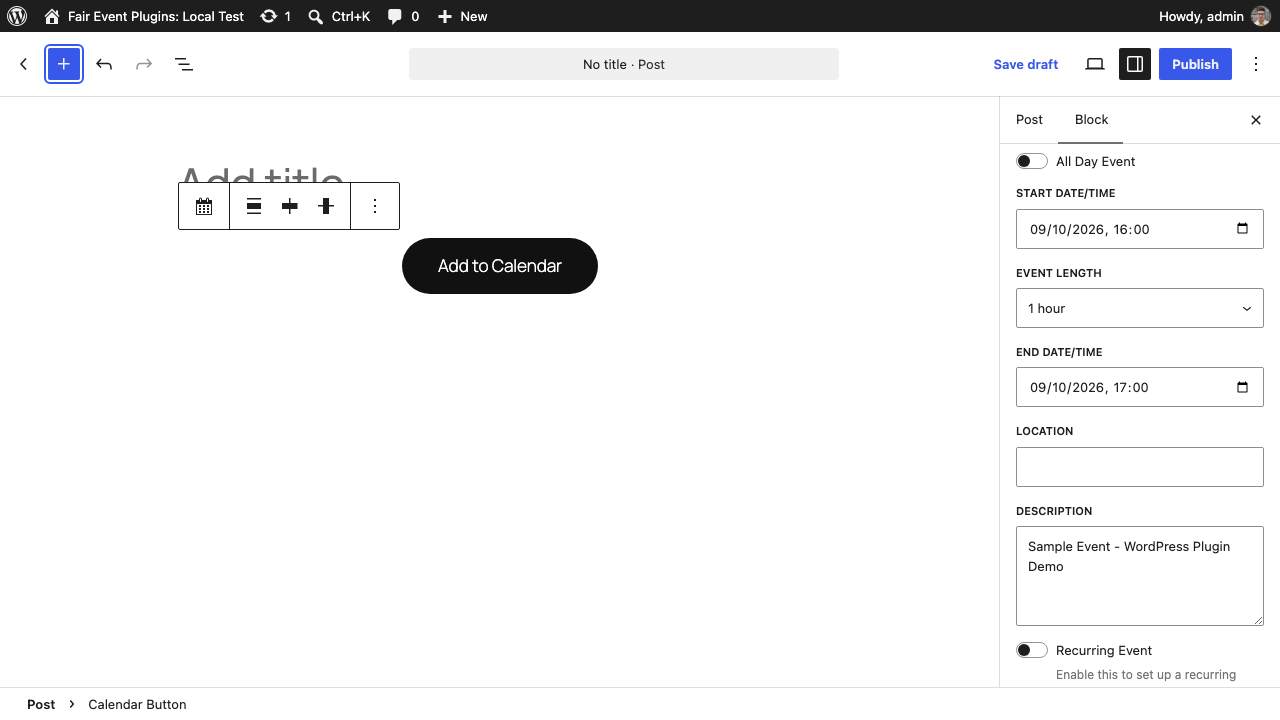
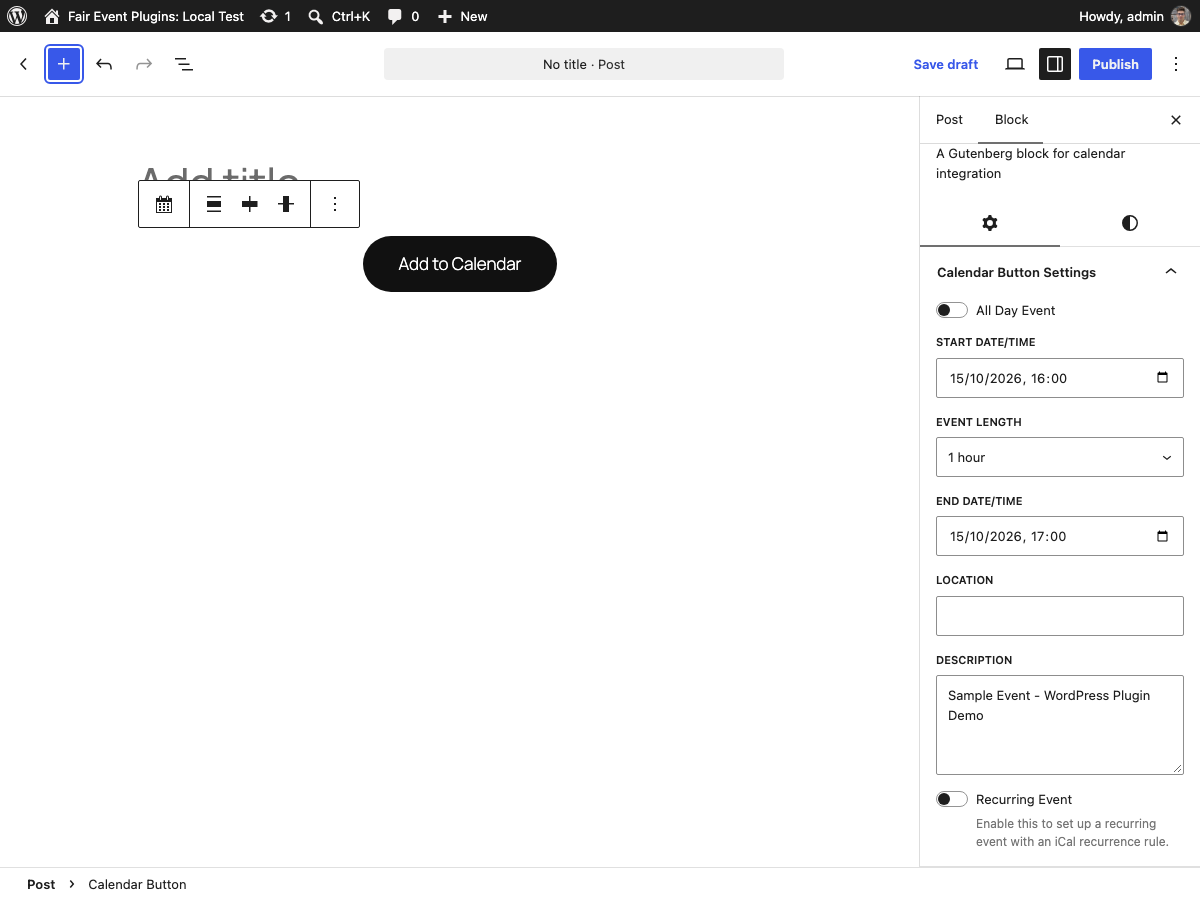
Capture Fair Calendar Button screenshots at 1200×900
The project-level Desktop Chrome preset overrode the config viewport, so
the plugin-directory screenshots came out at 1280×720. Set the viewport in
the screenshot spec, as the fair-events and fair-timetable specs do, and
assert that the block, its settings panel and the open provider dropdown
are fully in frame before capture.

Document the real command and prerequisites in the asset notes and fix
the example base URL port.

Refs #1833

diff --git a/fair-calendar-button/e2e/wordpress-org.spec.js b/fair-calendar-button/e2e/wordpress-org.spec.js
@@ -4,8 +4,32 @@ import { test, expect } from '@playwright/test';
 const WP_ADMIN_USER = process.env.WP_ADMIN_USER || 'admin';
 const WP_ADMIN_PASS = process.env.WP_ADMIN_PASS || 'password';
 
+// Plugin-directory screenshots share one size across the plugin galleries.
+// Set it in the spec: the project's Desktop Chrome preset overrides the
+// config-level viewport.
+const VIEWPORT = { width: 1200, height: 900 };
+
+/**
+ * Assert that a locator's bounding box lies fully inside the viewport, so the
+ * captured (non-full-page) screenshot shows the whole subject.
+ *
+ * @param {import('@playwright/test').Page}    page    Current page.
+ * @param {import('@playwright/test').Locator} locator Subject to check.
+ */
+async function expectFullyInViewport( page, locator ) {
+	await expect( locator ).toBeVisible();
+	const box = await locator.boundingBox();
+	const { width, height } = page.viewportSize();
+	expect( box.x ).toBeGreaterThanOrEqual( 0 );
+	expect( box.y ).toBeGreaterThanOrEqual( 0 );
+	expect( box.x + box.width ).toBeLessThanOrEqual( width );
+	expect( box.y + box.height ).toBeLessThanOrEqual( height );
+}
+
 test.describe( 'WordPress.org Screenshot for Fair Calendar Button', () => {
 	test.beforeEach( async ( { page } ) => {
+		await page.setViewportSize( VIEWPORT );
+
 		// Login to WordPress admin
 		await page.goto( '/wp-admin' );
 		await page.fill( '#user_login', WP_ADMIN_USER );
@@ -147,6 +171,20 @@ test.describe( 'WordPress.org Screenshot for Fair Calendar Button', () => {
 			await page.waitForTimeout( 500 );
 		}
 
+		// The selected block and its settings panel must both be in frame.
+		await expectFullyInViewport(
+			page,
+			editorFrame
+				.locator( '.wp-block-fair-calendar-button-calendar-button' )
+				.first()
+		);
+		await expect(
+			page.locator( '.block-editor-block-inspector' )
+		).toBeVisible();
+		await expect(
+			page.locator( 'input[type="datetime-local"]' ).first()
+		).toBeInViewport();
+
 		// Take screenshot-1 of the editor with settings panel (full viewport)
 		await page.screenshot( {
 			path: 'assets/screenshot-1.png',
@@ -227,6 +265,11 @@ test.describe( 'WordPress.org Screenshot for Fair Calendar Button', () => {
 				await page.waitForTimeout( 2000 );
 			}
 		}
+
+		// The whole open provider dropdown must be in frame.
+		const dropdown = page.locator( '.calendar-dropdown' ).first();
+		await dropdown.scrollIntoViewIfNeeded();
+		await expectFullyInViewport( page, dropdown );
 
 		// Take screenshot-2 of the frontend view with dropdown open (full viewport)
 		await page.screenshot( {

diff --git a/fair-calendar-button/assets/README.md b/fair-calendar-button/assets/README.md
@@ -18,35 +18,30 @@ This directory contains assets for the WordPress.org plugin directory.
 
 ## Creating Screenshots
 
-Screenshots can be generated automatically using the included Playwright test script:
+Both screenshots are generated by the Playwright spec
+`e2e/wordpress-org.spec.js`, which captures them at a 1200x900 viewport.
 
-### Automated Screenshot Generation
-
-The plugin includes an automated screenshot generation script using Playwright
-that creates the required WordPress.org screenshots.
-
-#### Prerequisites
+### Prerequisites
 1. Docker Compose WordPress environment running on `localhost:8080`
-2. Node.js and npm installed
-3. Playwright dependencies installed
+   (`docker compose up` from the repository root), with Fair Calendar Button
+   active and its assets built (`npm run build -w fair-calendar-button`)
+2. Node.js and npm installed, with dependencies installed (`npm install` from
+   the repository root)
+3. Playwright browsers installed (`npx playwright install chromium`)
 
-#### Usage
+### Usage
 ```bash
-# Install dependencies (if not already done)
-npm install
-
-# Set up environment variables (copy from .env.example)
-cp .env.example .env
-
-# Edit .env with your WordPress admin credentials:
+# Optional: override the defaults (admin / password, http://localhost:8080)
+# in fair-calendar-button/.env — see .env.example:
 # WP_ADMIN_USER=admin
-# WP_ADMIN_PASS=your-password
+# WP_ADMIN_PASS=password
 # WP_BASE_URL=http://localhost:8080
 
-# Run the screenshot generation
-npx playwright test
-
-# Screenshots will be generated in the assets/ directory:
-# - assets/screenshot-1.png - Editor view with settings panel
-# - assets/screenshot-2.png - Frontend view with dropdown menu
+# From the repository root
+npm run screenshots -w fair-calendar-button
 ```
+
+The run publishes a sample post on the site and writes:
+
+- `assets/screenshot-1.png` - Editor view with the block settings panel
+- `assets/screenshot-2.png` - Frontend view with the provider dropdown open
